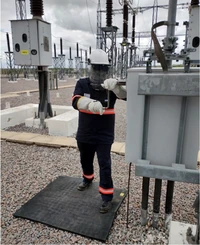
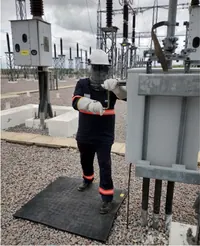
Add reserved-vehicles subsection to the safety-equipment slide
New "Veículos reservados" subsection on slide-safety-equipment with the
three team-vehicle photos (car-1..3) in a tri-column mosaic matching the
EPI section, plus their generated responsive webp variants.

diff --git a/slides/slide-safety-equipment.html b/slides/slide-safety-equipment.html
@@ -70,6 +70,32 @@
               <p class="obs obs-default invisible"></p>
             </div>
           </div>
+          <div class="title-header-h2">
+            <h2 class="title-h2">Veículos reservados</h2>
+          </div>
+          <div class="mosaic-container tri-column">
+            <div class="img img-default">
+              <picture>
+                <source type="image/webp" srcset="../assets/img/slides/st/safety-equipment/car-1-200.webp 200w, ../assets/img/slides/st/safety-equipment/car-1-640.webp 640w, ../assets/img/slides/st/safety-equipment/car-1-1024.webp 1024w, ../assets/img/slides/st/safety-equipment/car-1-1280.webp 1280w" sizes="(max-width: 576px) 92vw, (max-width: 992px) 31vw, 300px" />
+                <img width="1280" height="720" src="../assets/img/slides/st/safety-equipment/car-1.jpeg" alt="Veículos reservados para a equipe de segurança do trabalho (foto 1 de 3)" loading="lazy" />
+              </picture>
+              <p class="obs obs-default invisible"></p>
+            </div>
+            <div class="img img-default">
+              <picture>
+                <source type="image/webp" srcset="../assets/img/slides/st/safety-equipment/car-2-200.webp 200w, ../assets/img/slides/st/safety-equipment/car-2-640.webp 640w, ../assets/img/slides/st/safety-equipment/car-2-1024.webp 1024w, ../assets/img/slides/st/safety-equipment/car-2-1600.webp 1600w" sizes="(max-width: 576px) 92vw, (max-width: 992px) 31vw, 300px" />
+                <img width="1600" height="1200" src="../assets/img/slides/st/safety-equipment/car-2.jpeg" alt="Veículos reservados para a equipe de segurança do trabalho (foto 2 de 3)" loading="lazy" />
+              </picture>
+              <p class="obs obs-default invisible"></p>
+            </div>
+            <div class="img img-default">
+              <picture>
+                <source type="image/webp" srcset="../assets/img/slides/st/safety-equipment/car-3-200.webp 200w, ../assets/img/slides/st/safety-equipment/car-3-640.webp 640w, ../assets/img/slides/st/safety-equipment/car-3-1024.webp 1024w, ../assets/img/slides/st/safety-equipment/car-3-1600.webp 1600w" sizes="(max-width: 576px) 92vw, (max-width: 992px) 31vw, 300px" />
+                <img width="1600" height="1200" src="../assets/img/slides/st/safety-equipment/car-3.jpeg" alt="Veículos reservados para a equipe de segurança do trabalho (foto 3 de 3)" loading="lazy" />
+              </picture>
+              <p class="obs obs-default invisible"></p>
+            </div>
+          </div>
         </div>
       </div>
     </main>
